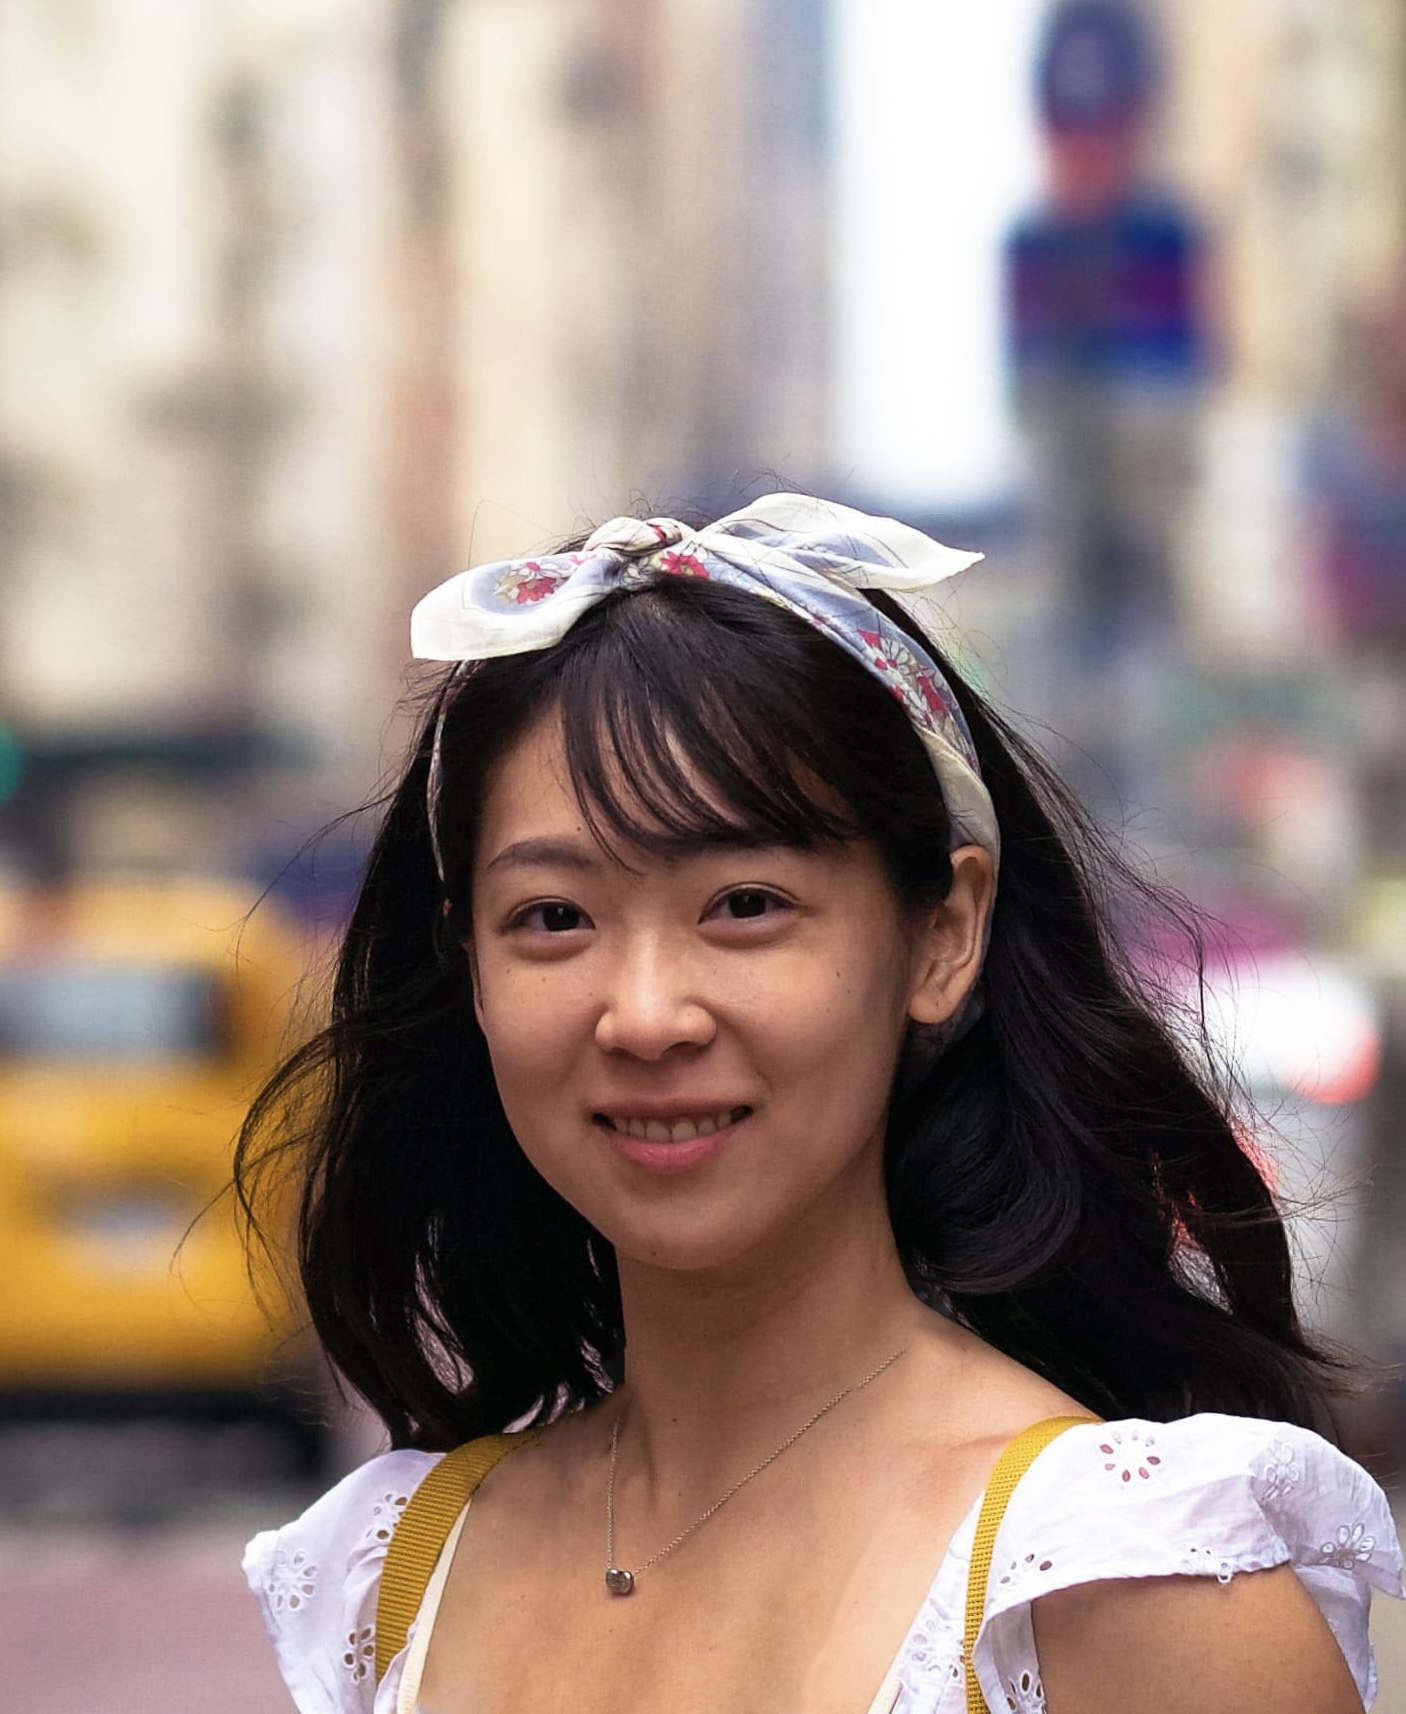
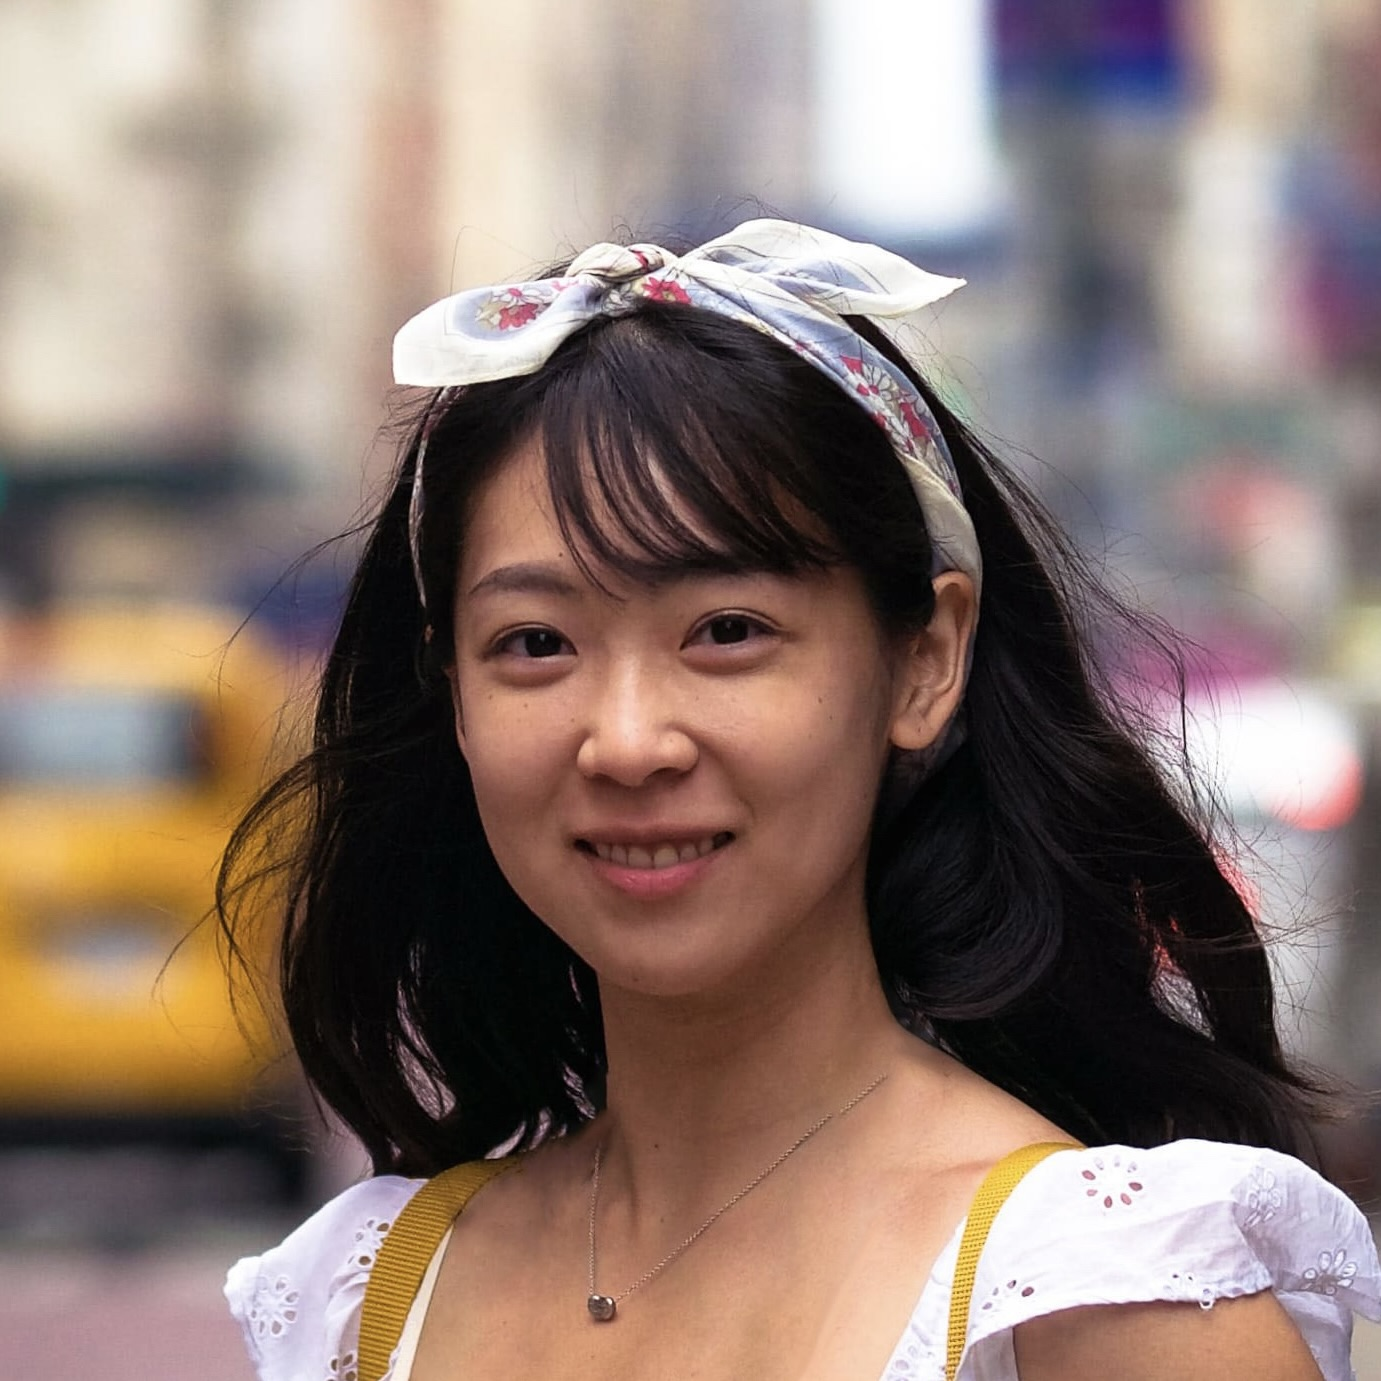
Built site for gh-pages

diff --git a/index.html b/index.html
@@ -147,7 +147,7 @@ ul.task-list li input[type="checkbox"] {
 </div>
   </div>
   <div class="about-contents"><main class="content" id="quarto-document-content">
-<p>I am a postdoctoral scholar in the Department Gastroenterology at Duke University. I received my PhD from the University of Tokyo in 2026.</p>
+<p>I am a postdoctoral scholar in the Department of Gastroenterology at Duke University. I received my PhD from the University of Tokyo in 2026, where I examined how diet shapes host eating behavior via the microbiome-gut-brain axis.</p>
 <p>My research focuses on gut sensing of dietary substrates and how that information is relayed to the brain.</p>
 <p>Outside of research, I make <a href="./ceramics.html">ceramics</a>.</p>
 <p>You can reach me at <a href="mailto:yijia.liow@gmail.com">yijia.liow@gmail.com</a>.</p>
